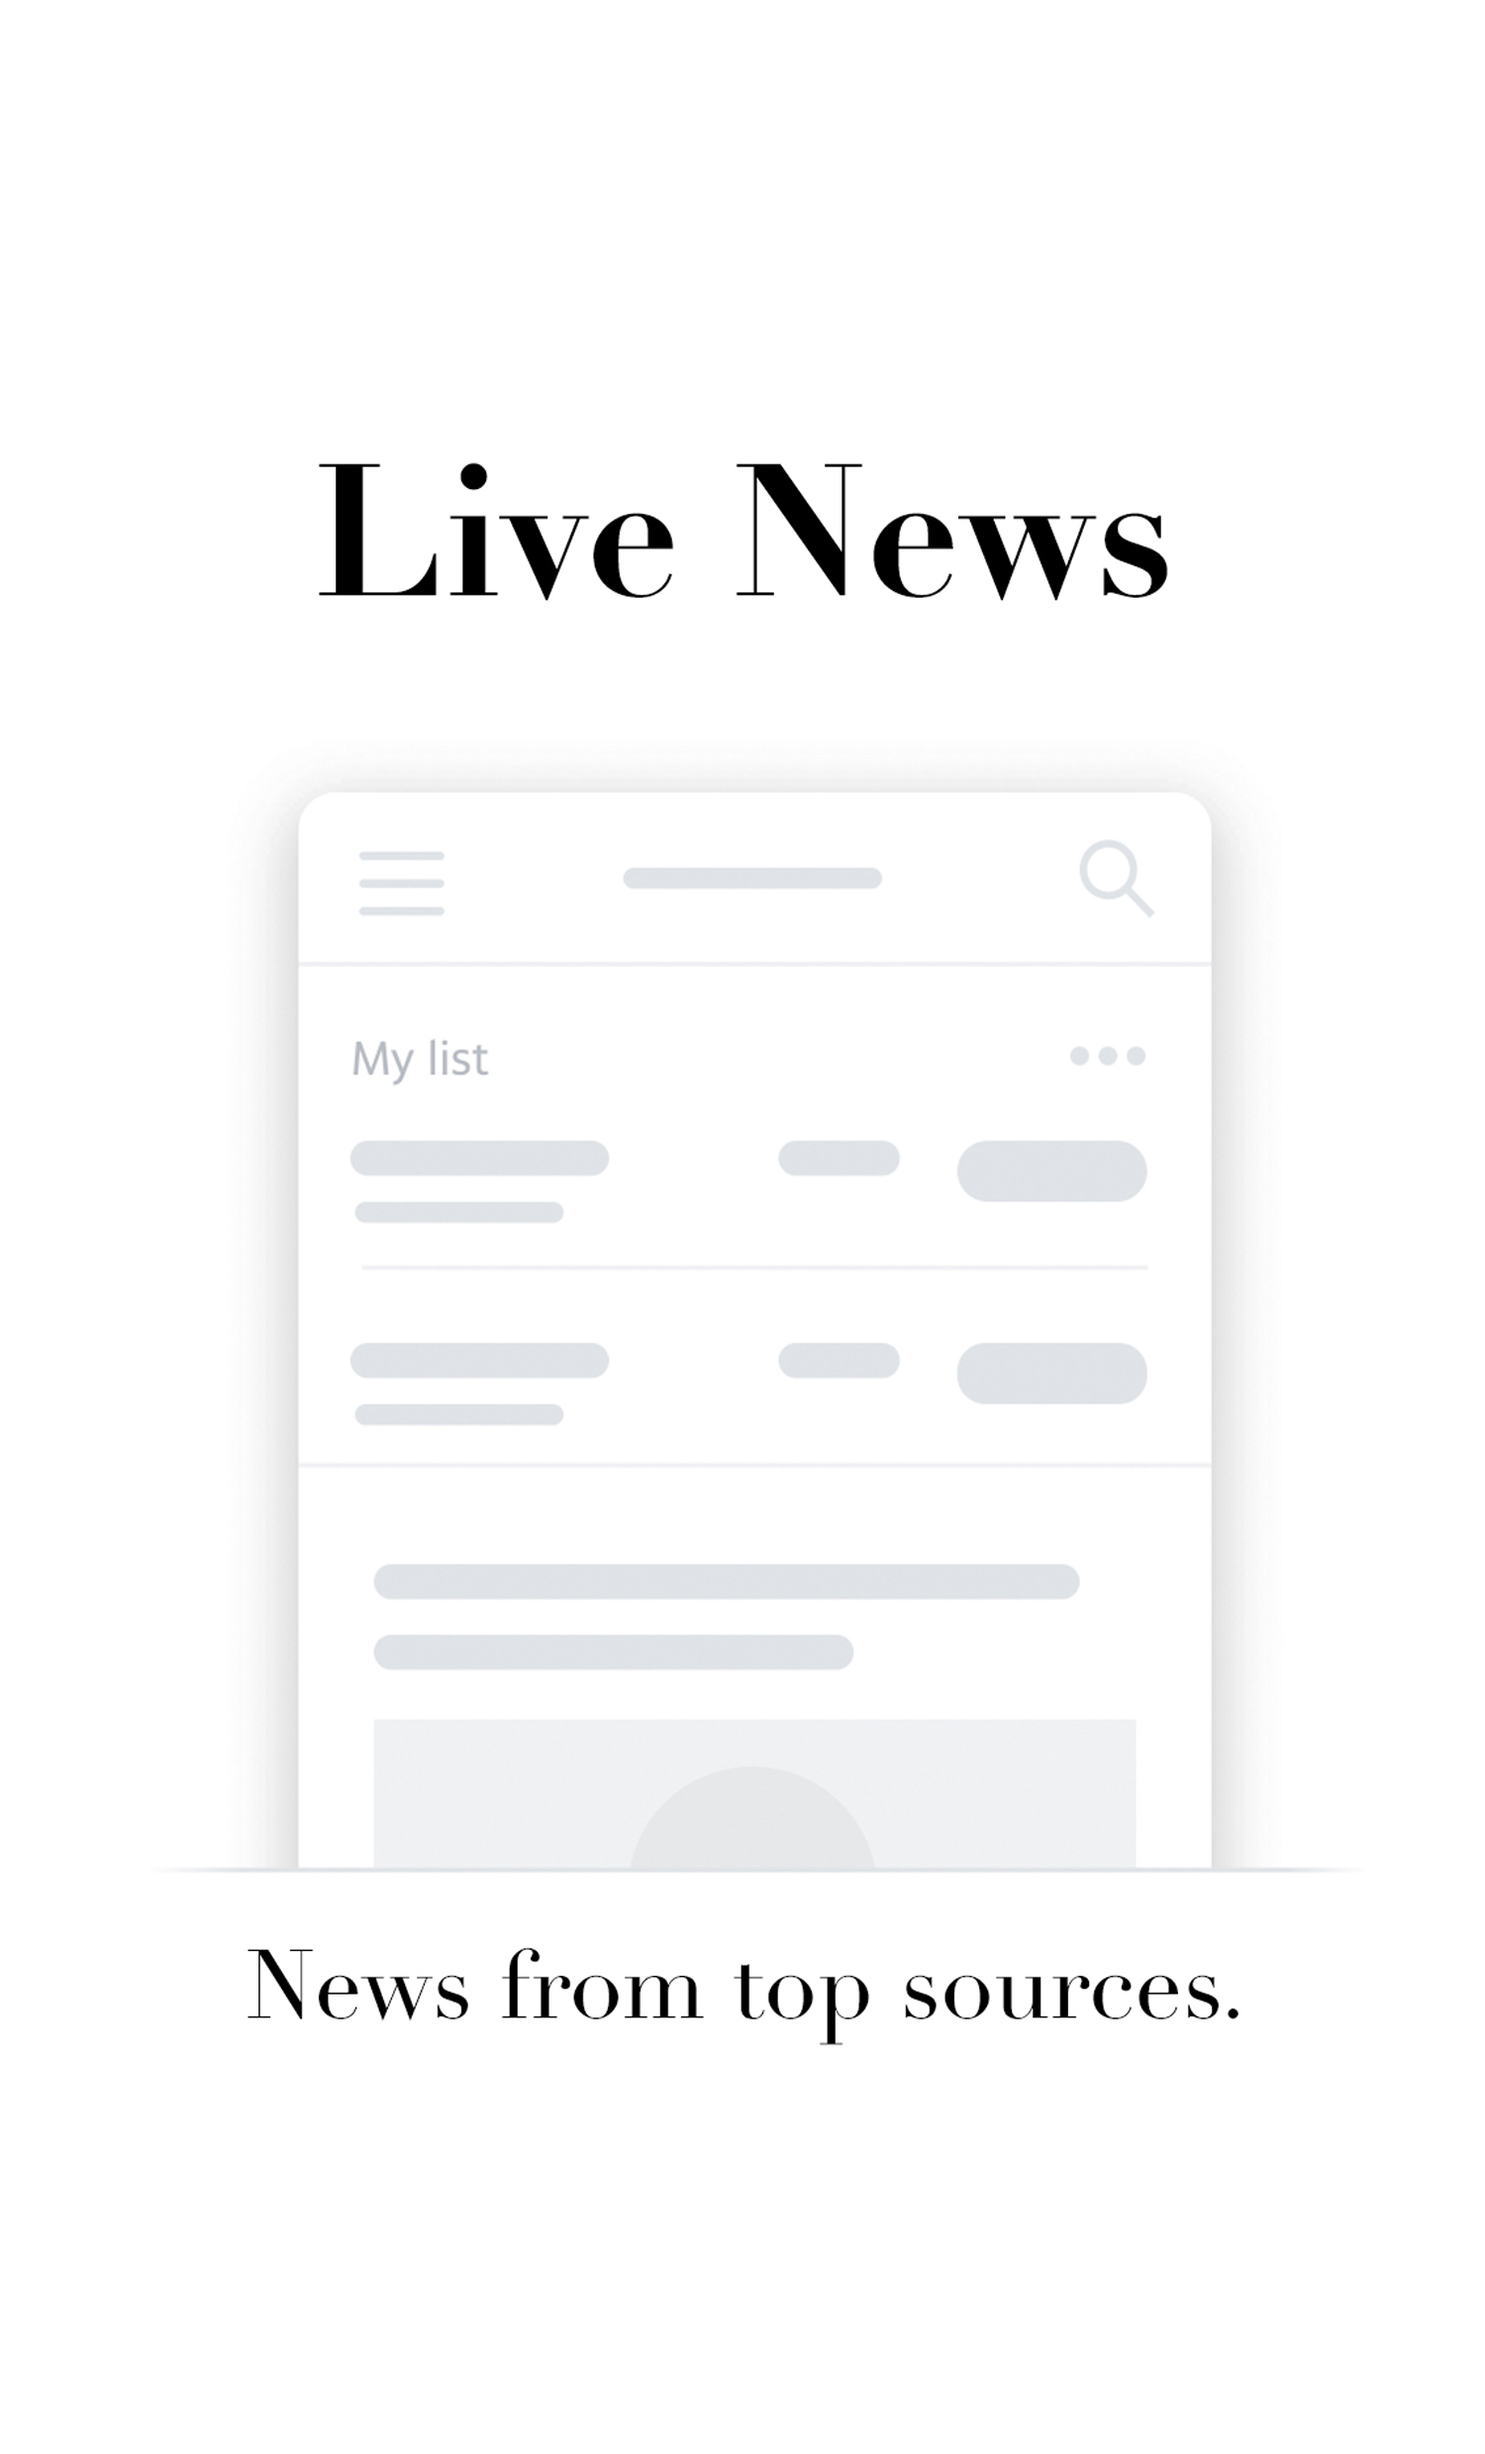
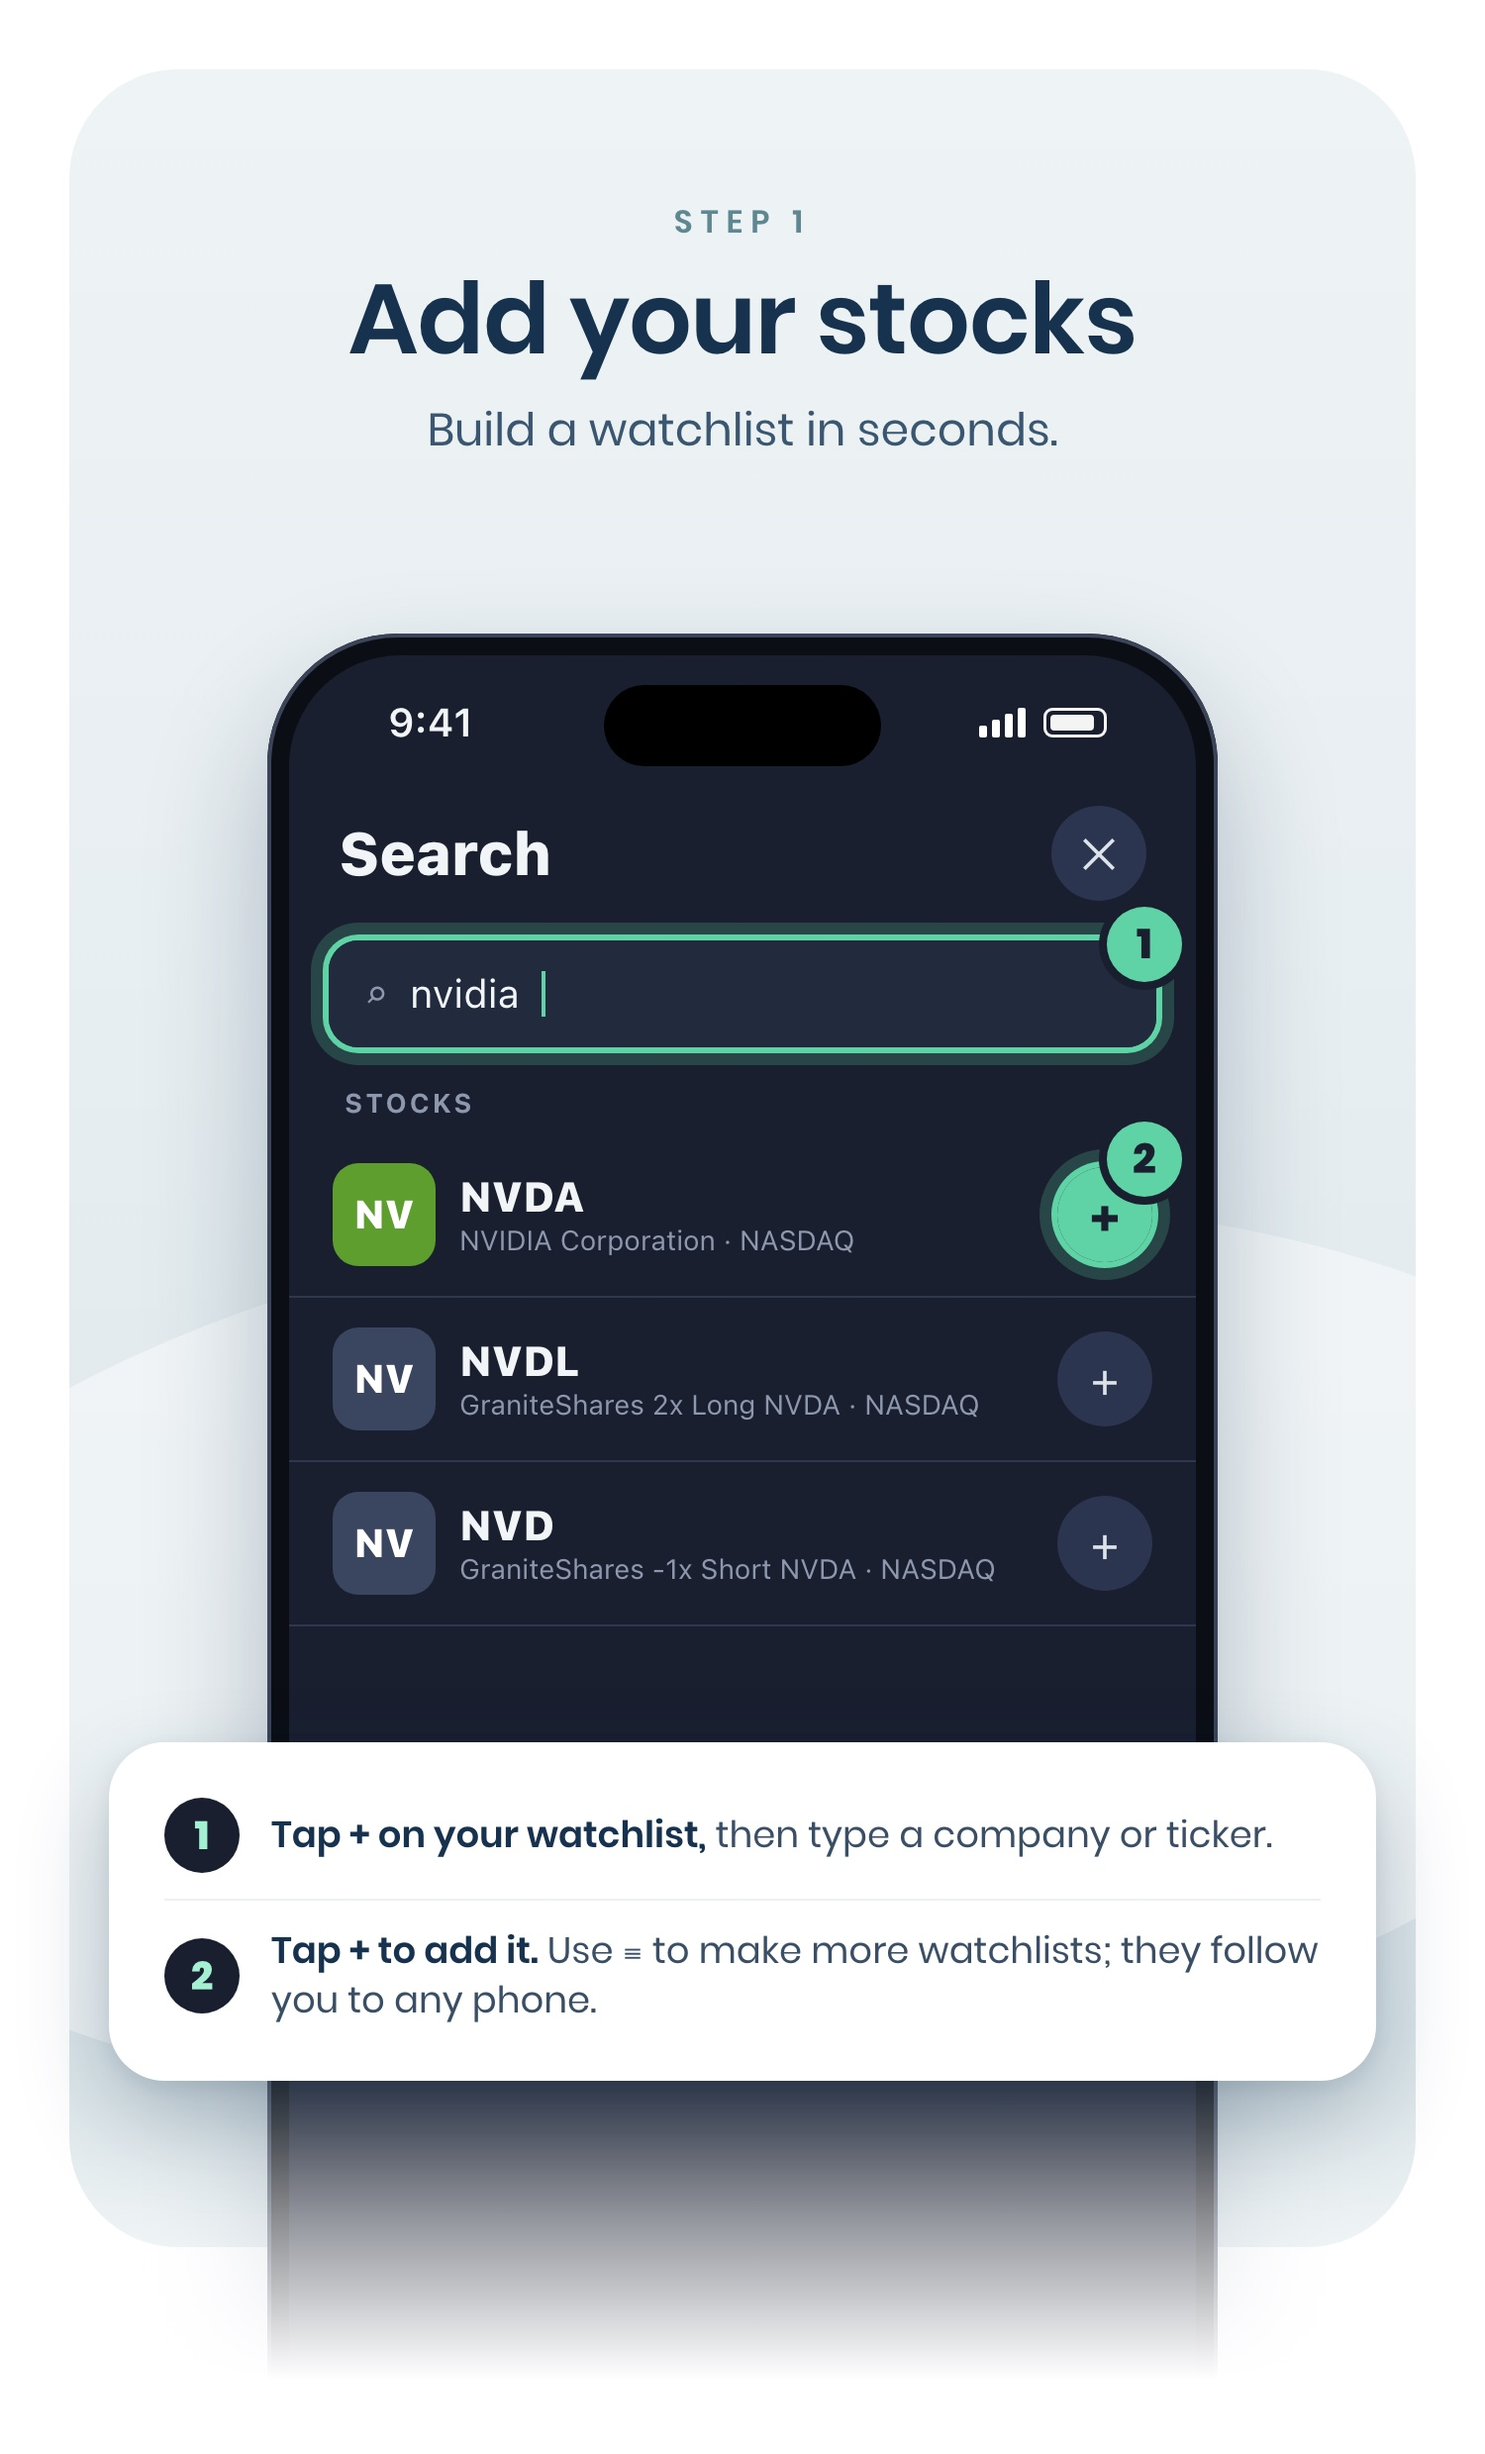
Change: Onboarding shows five scenes
Onboarding had three scenes hard-coded in four places (page count, skip target, last-page check, button titles). One pageCount constant now drives them all; page1-3 images were replaced and page4/page5 added in Support/.

diff --git a/Bullish Square/Controllers/OnboardingController.swift b/Bullish Square/Controllers/OnboardingController.swift
@@ -13,6 +13,10 @@ class OnboardingController: UIViewController {
     
     var swiftyOnboard: SwiftyOnboard!
     
+    ///Number of onboarding scenes, one image each: page1.jpg ... pageN.jpg in Support/.
+    private let pageCount = 5
+    private var lastPage: Int { pageCount - 1 }
+    
     @IBOutlet var logoImage: UIImageView!
     
     override func viewWillAppear(_ animated: Bool) {
@@ -42,7 +46,7 @@ class OnboardingController: UIViewController {
         let index = sender.tag
         swiftyOnboard?.goToPage(index: index + 1, animated: true)
         
-        if index == 2 {
+        if index == lastPage {
             goToLogin()
         }
     }
@@ -69,14 +73,14 @@ class OnboardingController: UIViewController {
     }
     
     @objc func handleSkip() {
-        swiftyOnboard?.goToPage(index: 2, animated: true)
+        swiftyOnboard?.goToPage(index: lastPage, animated: true)
     }
 }
 
 extension OnboardingController: SwiftyOnboardDataSource, SwiftyOnboardDelegate {
     
     func swiftyOnboardNumberOfPages(_ swiftyOnboard: SwiftyOnboard) -> Int {
-        return 3
+        return pageCount
     }
     
     func swiftyOnboardPageForIndex(_ swiftyOnboard: SwiftyOnboard, index: Int) -> SwiftyOnboardPage? {
@@ -136,7 +140,7 @@ extension OnboardingController: SwiftyOnboardDataSource, SwiftyOnboardDelegate {
         print(Int(currentPage))
         overlay.continueButton.tag = Int(position)
         
-        if currentPage == 0.0 || currentPage == 1.0 {
+        if Int(currentPage) < lastPage {
             overlay.continueButton.setTitle("Continue", for: .normal)
             overlay.skipButton.setTitle("Skip", for: .normal)
             overlay.skipButton.isHidden = false
